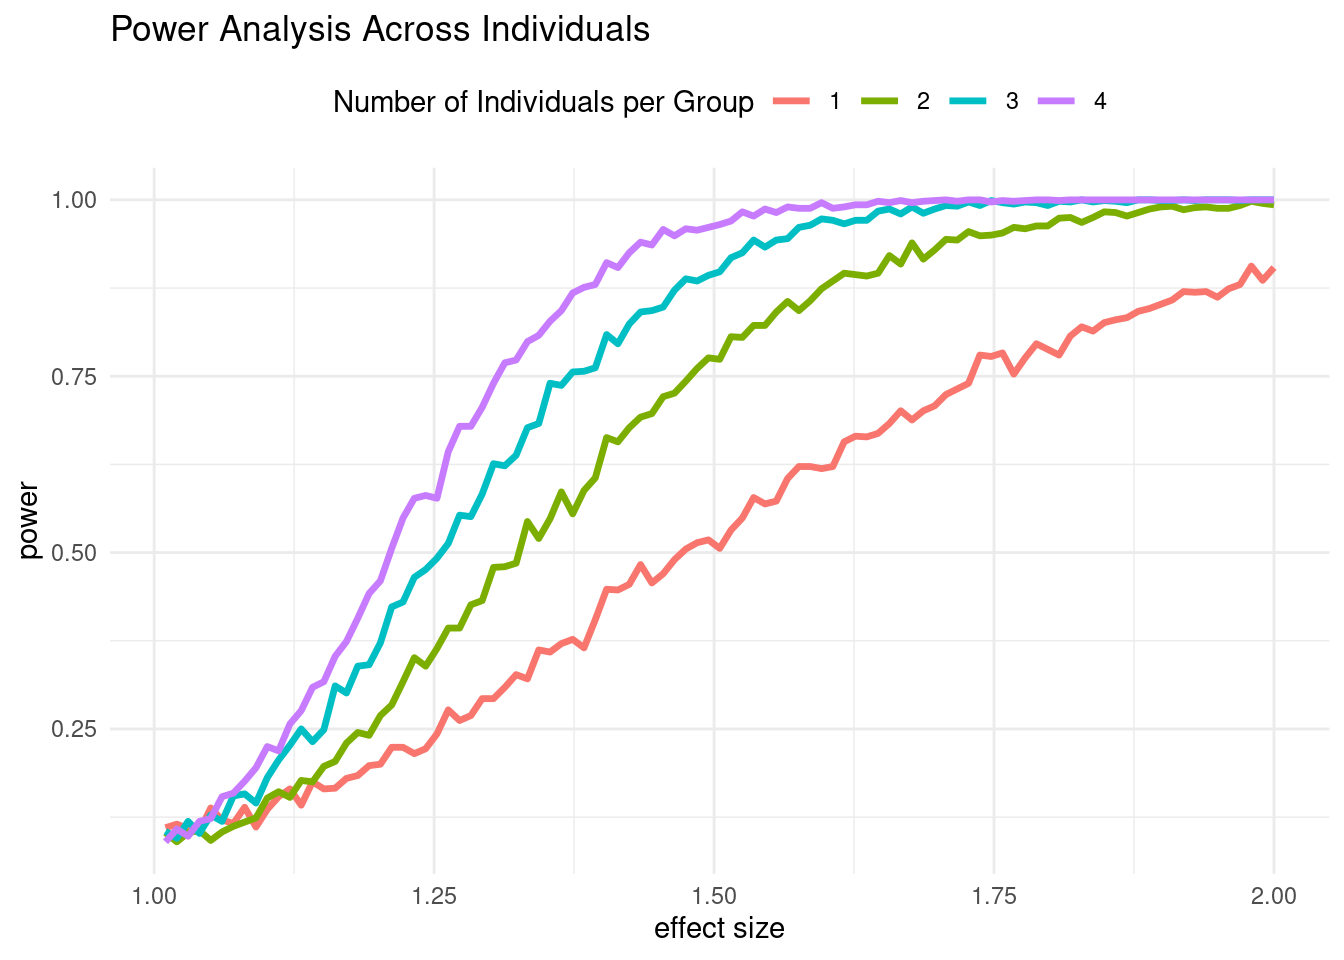
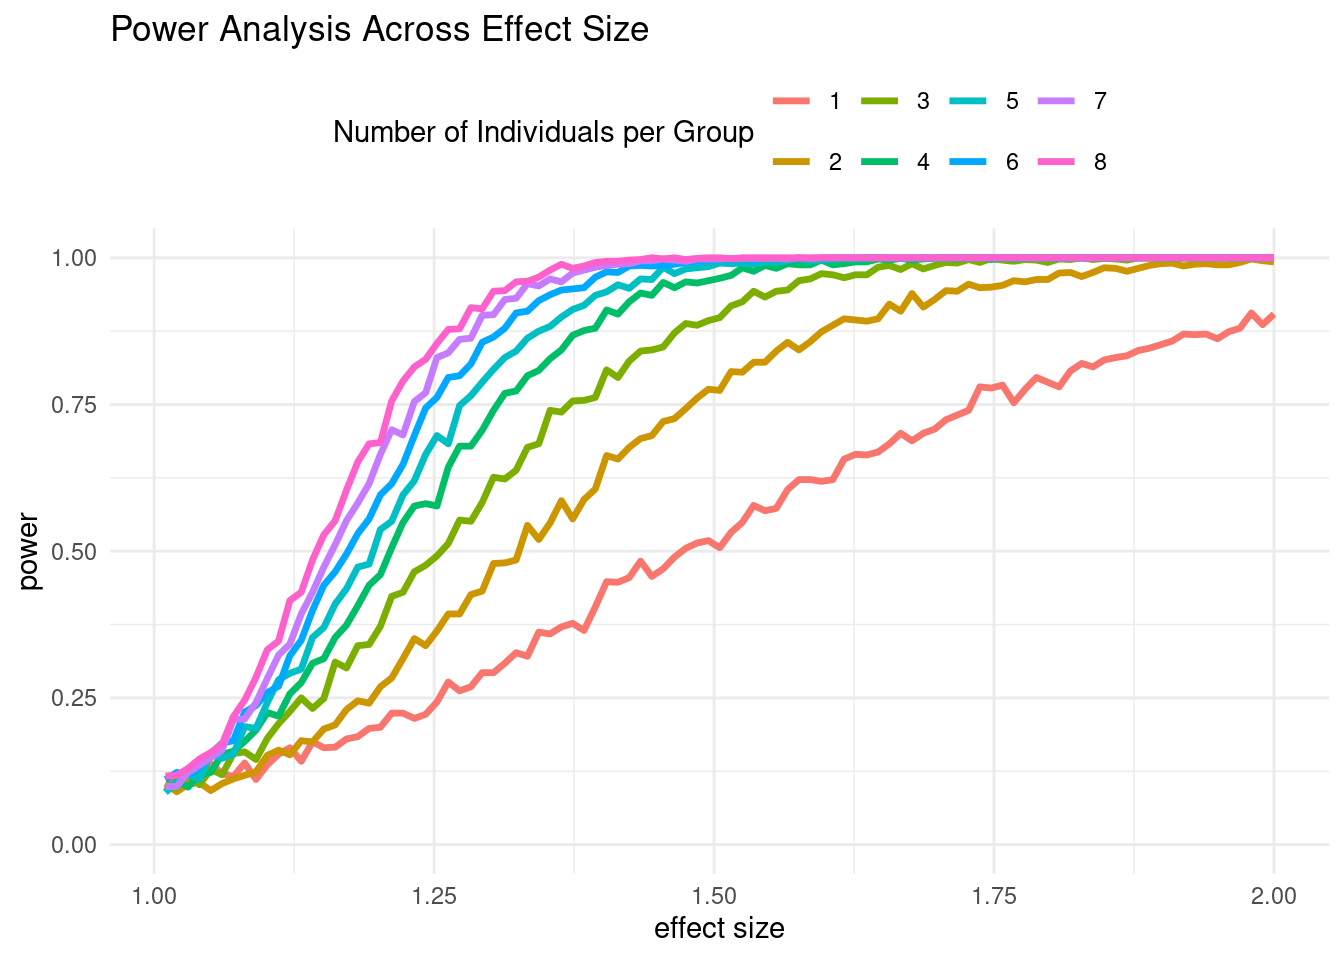
update PA for more indv

diff --git a/docs/simulation_power_analysis.html b/docs/simulation_power_analysis.html
@@ -552,15 +552,15 @@ data/simulations/power_analysis
 <div class="panel panel-default">
 <div class="panel-heading">
 <p class="panel-title">
-<a data-toggle="collapse" data-parent="#workflowr-checks" href="#strongRepositoryversionstrongahrefhttpsgithubcomawchen55differentialDispersiontree60a5b9dede71eb6a1bf0073f78ac5bb22b51842dtargetblank60a5b9da">
+<a data-toggle="collapse" data-parent="#workflowr-checks" href="#strongRepositoryversionstrongahrefhttpsgithubcomawchen55differentialDispersiontree33f41a2b1e5cc0af9c6ba2d7c4dcc474cc2b8a1ctargetblank33f41a2a">
 <span class="glyphicon glyphicon-ok text-success"
 aria-hidden="true"></span> <strong>Repository version:</strong>
-<a href="https://github.com/awchen55/differentialDispersion/tree/60a5b9dede71eb6a1bf0073f78ac5bb22b51842d" target="_blank">60a5b9d</a>
+<a href="https://github.com/awchen55/differentialDispersion/tree/33f41a2b1e5cc0af9c6ba2d7c4dcc474cc2b8a1c" target="_blank">33f41a2</a>
 </a>
 </p>
 </div>
 <div
[2 lines of base64/hex data omitted]
 class="panel-collapse collapse">
 <div class="panel-body">
 <p>
@@ -570,7 +570,7 @@ reproducibility.
 </p>
 <p>
 The results in this page were generated with repository version
-<a href="https://github.com/awchen55/differentialDispersion/tree/60a5b9dede71eb6a1bf0073f78ac5bb22b51842d" target="_blank">60a5b9d</a>.
+<a href="https://github.com/awchen55/differentialDispersion/tree/33f41a2b1e5cc0af9c6ba2d7c4dcc474cc2b8a1c" target="_blank">33f41a2</a>.
 See the <em>Past versions</em> tab to see a history of the changes made
 to the R Markdown and HTML files.
 </p>
@@ -678,6 +678,40 @@ Message
 Rmd
 </td>
 <td>
+<a href="https://github.com/awchen55/differentialDispersion/blob/33f41a2b1e5cc0af9c6ba2d7c4dcc474cc2b8a1c/analysis/simulation_power_analysis.Rmd" target="_blank">33f41a2</a>
+</td>
+<td>
+awchen55
+</td>
+<td>
+2024-12-05
+</td>
+<td>
+update power analysis
+</td>
+</tr>
+<tr>
+<td>
+html
+</td>
+<td>
+<a href="https://rawcdn.githack.com/awchen55/differentialDispersion/33f41a2b1e5cc0af9c6ba2d7c4dcc474cc2b8a1c/docs/simulation_power_analysis.html" target="_blank">33f41a2</a>
+</td>
+<td>
+awchen55
+</td>
+<td>
+2024-12-05
+</td>
+<td>
+update power analysis
+</td>
+</tr>
+<tr>
+<td>
+Rmd
+</td>
+<td>
 <a href="https://github.com/awchen55/differentialDispersion/blob/60a5b9dede71eb6a1bf0073f78ac5bb22b51842d/analysis/simulation_power_analysis.Rmd" target="_blank">60a5b9d</a>
 </td>
 <td>
@@ -746,24 +780,16 @@ pool genes that have mean expression of between 0.9 - 1.1 UMI/cell and
 fit a Gamma-Poisson model to estimate <span
 class="math inline">\(\phi\)</span>.</p>
 <pre class="r"><code>library(glmGamPoi)
-library(dplyr)</code></pre>
-<pre><code>
-Attaching package: &#39;dplyr&#39;</code></pre>
-<pre><code>The following objects are masked from &#39;package:stats&#39;:
+library(dplyr)
 
-    filter, lag</code></pre>
-<pre><code>The following objects are masked from &#39;package:base&#39;:
-
-    intersect, setdiff, setequal, union</code></pre>
-<pre class="r"><code>card_path = &quot;/project/gilad/brendan/dispersion/pilot/cHDC_data/cellranger_cluster-mode_trial/analysis/datasets/median_gene_detection/&quot;
+card_path = &quot;/project/gilad/brendan/dispersion/pilot/cHDC_data/cellranger_cluster-mode_trial/analysis/datasets/median_gene_detection/&quot;
 #setwd(card_path)
 
 
 cardiomyocytes_data4000 &lt;- readRDS(paste(card_path, &quot;lane_a_card_downsampled_UMI_matrix_10.rds&quot;, sep = &quot;&quot;))
-cardiomyocytes_data4000 &lt;- t(as.matrix(cardiomyocytes_data4000))</code></pre>
-<pre><code>Warning in asMethod(object): sparse-&gt;dense coercion: allocating vector of size
-1.2 GiB</code></pre>
-<pre class="r"><code># calculate mean expression and remove genes with low expression
+cardiomyocytes_data4000 &lt;- t(as.matrix(cardiomyocytes_data4000))
+
+# calculate mean expression and remove genes with low expression
 cardiomyocytes_data4000_filtered &lt;- cardiomyocytes_data4000[, colSums(cardiomyocytes_data4000 != 0) &gt; 10]
 
 # calculate mean expression
@@ -963,9 +989,10 @@ described by Efron and Tibshirani:</p>
 <div id="run-power-analysis" class="section level2">
 <h2><strong>Run Power Analysis</strong></h2>
 <p>We run the power analysis by simulating 1,000 times for <span
-class="math inline">\(B=1,000\)</span> bootstrapping iterations. We test
-out 100 different effect sizes for the applied factor to the varaince,
-spanned evenly between 1 and 2.</p>
+class="math inline">\(B=1,000\)</span> bootstrapping iterations. We
+assume <span class="math inline">\(q=0.4\)</span>. We test out 100
+different effect sizes for the applied factor to the variance, spanned
+evenly between 1 and 2.</p>
 <pre class="r"><code>n_sims = 100
 B = 1000
 n_cells = 1000
@@ -1031,17 +1058,15 @@ names(power_vec) &lt;- varying_factor[2:length(varying_factor)]
 path = &quot;/project2/gilad/awchen55/differentialDispersion/data/simulations/power_analysis&quot;
 
 save(power_vec, file = file.path(path,paste(&quot;power_analysis_indv_&quot;,n_indv,&quot;.RData&quot;,sep=&quot;&quot;)))</code></pre>
-<div id="power-analysis-across-effect-size-per-individuals"
-class="section level3">
-<h3><strong><em>Power Analysis Across Effect Size per
-Individuals</em></strong></h3>
+<div id="power-analysis-across-effect-size" class="section level3">
+<h3><strong><em>Power Analysis Across Effect Size</em></strong></h3>
 <p>We look at the power based on varying effect size for the number of
 individuals.</p>
 <pre class="r"><code># Initialize an empty list
 data_list &lt;- list()
 path = &quot;/project2/gilad/awchen55/differentialDispersion/data/simulations/power_analysis&quot;
 
-for (n_indv in 1:4) {
+for (n_indv in 1:8) {
   # Load the RData file into a temporary environment
   temp_env &lt;- new.env()
   load(file.path(path, paste(&quot;power_analysis_100ef_indv_&quot;, n_indv, &quot;.RData&quot;, sep = &quot;&quot;)), envir = temp_env)
@@ -1061,20 +1086,74 @@ combined_data &lt;- do.call(rbind, data_list)</code></pre>
 #colors &lt;- c(&quot;red&quot;, &quot;blue&quot;, &quot;green&quot;)
 
 ggplot(combined_data, aes(x = x, y = y, color = as.factor(id), group = as.factor(id))) +
-  geom_line(size = 1.2) +
-  labs(title = &quot;Power Analysis Across Individuals&quot;,
+  geom_line(size = 1.2) + ylim(0,1)+
+  labs(title = &quot;Power Analysis Across Effect Size&quot;,
        x = &quot;effect size&quot;, 
        y = &quot;power&quot;,
        color = &quot;Number of Individuals per Group&quot;) +
   #scale_color_manual(values = c(&quot;red&quot;, &quot;blue&quot;, &quot;green&quot;)) +  # Manually assign colors to each group
   theme_minimal() +
   theme(legend.position = &quot;top&quot;) </code></pre>
-<pre><code>Warning: Using `size` aesthetic for lines was deprecated in ggplot2 3.4.0.
-ℹ Please use `linewidth` instead.
-This warning is displayed once every 8 hours.
-Call `lifecycle::last_lifecycle_warnings()` to see where this warning was
-generated.</code></pre>
 <p><img src="figure/simulation_power_analysis.Rmd/unnamed-chunk-13-1.png" width="672" style="display: block; margin: auto;" /></p>
+<p>
+<button type="button" class="btn btn-default btn-xs btn-workflowr btn-workflowr-fig" data-toggle="collapse" data-target="#fig-unnamed-chunk-13-1">
+Past versions of unnamed-chunk-13-1.png
+</button>
+</p>
+<div id="fig-unnamed-chunk-13-1" class="collapse">
+<div class="table-responsive">
+<table class="table table-condensed table-hover">
+<thead>
+<tr>
+<th>
+Version
+</th>
+<th>
+Author
+</th>
+<th>
+Date
+</th>
+</tr>
+</thead>
+<tbody>
+<tr>
+<td>
+<a href="https://github.com/awchen55/differentialDispersion/blob/33f41a2b1e5cc0af9c6ba2d7c4dcc474cc2b8a1c/docs/figure/simulation_power_analysis.Rmd/unnamed-chunk-13-1.png" target="_blank">33f41a2</a>
+</td>
+<td>
+awchen55
+</td>
+<td>
+2024-12-05
+</td>
+</tr>
+</tbody>
+</table>
+</div>
+</div>
+</div>
+<div id="power-analysis-across-individuals" class="section level3">
+<h3><strong><em>Power Analysis Across Individuals</em></strong></h3>
+<pre class="r"><code>ef_1.2 &lt;- combined_data[round(combined_data$x, 6) == 1.202020, ]
+ef_1.25 &lt;- combined_data[round(combined_data$x, 6) == 1.252525, ]
+ef_1.3 &lt;- combined_data[round(combined_data$x, 6) == 1.303030, ]
+ef_1.35 &lt;- combined_data[round(combined_data$x, 6) == 1.353535, ]
+ef_1.4 &lt;- combined_data[round(combined_data$x, 6) == 1.404040, ]
+ef_1.45 &lt;- combined_data[round(combined_data$x, 6) == 1.454545, ]
+ef_1.5 &lt;- combined_data[round(combined_data$x, 6) == 1.505051, ]
+combined_ef &lt;- rbind(ef_1.2,ef_1.25,ef_1.3,ef_1.35,ef_1.4,ef_1.45,ef_1.5)
+
+ggplot(combined_ef, aes(x = id, y = y, color = as.factor(round(x,2)), group = as.factor(round(x,2)))) +
+  geom_line(size = 1.2) + ylim(0, 1) +
+  labs(title = &quot;Power Analysis Across Individuals&quot;,
+       x = &quot;number of individuals per group&quot;, 
+       y = &quot;power&quot;,
+       color = &quot;Effect Size&quot;) +
+  #scale_color_manual(values = c(&quot;red&quot;, &quot;blue&quot;, &quot;green&quot;)) +  # Manually assign colors to each group
+  theme_minimal() +
+  theme(legend.position = &quot;top&quot;) </code></pre>
+<p><img src="figure/simulation_power_analysis.Rmd/unnamed-chunk-14-1.png" width="672" style="display: block; margin: auto;" /></p>
 <br>
 <p>
 <button type="button" class="btn btn-default btn-workflowr btn-workflowr-sessioninfo" data-toggle="collapse" data-target="#workflowr-sessioninfo" style="display: block;">
@@ -1123,22 +1202,22 @@ loaded via a namespace (and not attached):
 [33] SummarizedExperiment_1.26.1 tibble_3.2.1               
 [35] GenomeInfoDbData_1.2.8      workflowr_1.7.1            
 [37] IRanges_2.30.0              matrixStats_0.62.0         
-[39] fansi_1.0.3                 crayon_1.5.1               
-[41] withr_3.0.0                 later_1.3.0                
-[43] bitops_1.0-7                grid_4.2.0                 
-[45] jsonlite_1.8.0              gtable_0.3.0               
-[47] lifecycle_1.0.4             git2r_0.30.1               
-[49] magrittr_2.0.3              scales_1.3.0               
-[51] cli_3.6.3                   stringi_1.7.6              
-[53] farver_2.1.0                XVector_0.36.0             
-[55] fs_1.5.2                    promises_1.2.0.1           
-[57] bslib_0.3.1                 DelayedMatrixStats_1.18.2  
-[59] vctrs_0.6.5                 generics_0.1.3             
-[61] tools_4.2.0                 Biobase_2.56.0             
-[63] glue_1.7.0                  MatrixGenerics_1.8.0       
-[65] fastmap_1.1.0               yaml_2.3.5                 
-[67] colorspace_2.0-3            GenomicRanges_1.48.0       
-[69] knitr_1.39                  sass_0.4.1                 </code></pre>
+[39] fansi_1.0.3                 withr_3.0.0                
+[41] later_1.3.0                 bitops_1.0-7               
+[43] grid_4.2.0                  jsonlite_1.8.0             
+[45] gtable_0.3.0                lifecycle_1.0.4            
+[47] git2r_0.30.1                magrittr_2.0.3             
+[49] scales_1.3.0                cli_3.6.3                  
+[51] stringi_1.7.6               farver_2.1.0               
+[53] XVector_0.36.0              fs_1.5.2                   
+[55] promises_1.2.0.1            bslib_0.3.1                
+[57] DelayedMatrixStats_1.18.2   vctrs_0.6.5                
+[59] generics_0.1.3              tools_4.2.0                
+[61] Biobase_2.56.0              glue_1.7.0                 
+[63] MatrixGenerics_1.8.0        fastmap_1.1.0              
+[65] yaml_2.3.5                  colorspace_2.0-3           
+[67] GenomicRanges_1.48.0        knitr_1.39                 
+[69] sass_0.4.1                 </code></pre>
 </div>
 </div>
 </div>
